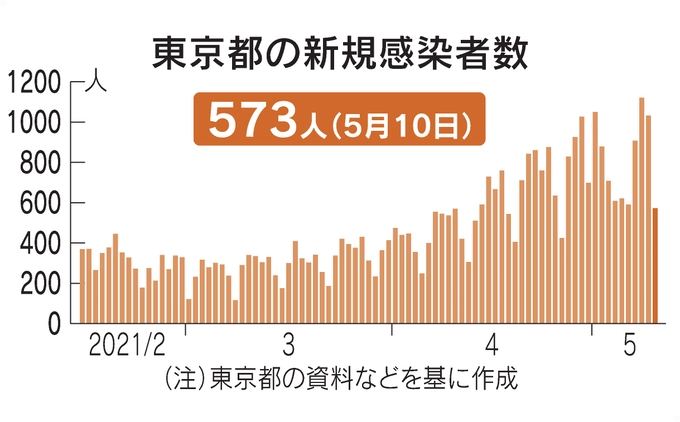
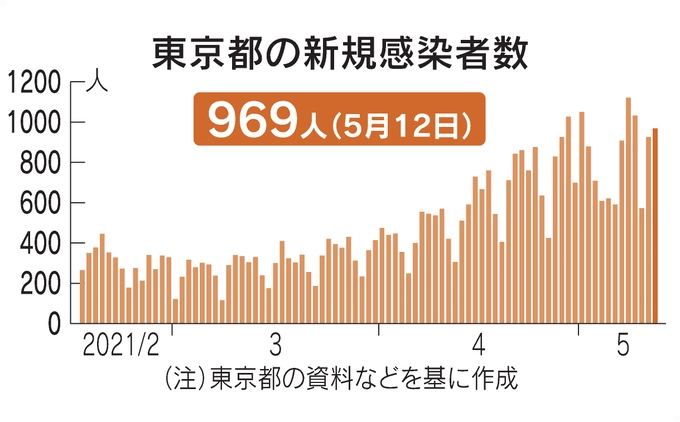
regular update

diff --git a/parts/info.php b/parts/info.php
@@ -4,15 +4,23 @@
 
   <div class="line"> INFO <i class="fas fa-info-circle"></i></div>
 
-    <!-- <li>2021年05月11日</li>
-  <div class="info-children"><span><a href="https://developershirai.com/technical-diary.php">TECHNICAL DIARY（基本情報処理技術者試験 ⑭「午前試験　テクノロジ系　過去問⑧」）</a> 追加</span></div> -->
-    <!-- <li>2021年05月12日</li>
-  <div class="info-children"><span><a href="https://developershirai.com/technical-diary.php">TECHNICAL DIARY（基本情報処理技術者試験 ⑬「午前試験　テクノロジ系　過去問⑦」）</a> 追加</span></div> -->
-    <!-- <li>2021年05月11日</li>
-  <div class="info-children"><span><a href="https://developershirai.com/technical-diary.php">TECHNICAL DIARY（基本情報処理技術者試験 ⑫「午前試験　テクノロジ系　過去問⑥」）</a> 追加</span></div> -->
+    <!-- <li>2021年05月16日</li>
+  <div class="info-children"><span><a href="https://developershirai.com/technical-diary.php">TECHNICAL DIARY</a> （基本情報処理技術者試験 ⑰「午前試験　マネジメント系　過去問⑪」）追加</span></div> -->
 
-  
+    <!-- <li>2021年05月15日</li>
+  <div class="info-children"><span><a href="https://developershirai.com/technical-diary.php">TECHNICAL DIARY</a> （基本情報処理技術者試験 ⑯「午前試験　テクノロジ系　過去問⑩」）追加</span></div> -->
 
+    <!-- <li>2021年05月14日</li>
+  <div class="info-children"><span><a href="https://developershirai.com/technical-diary.php">TECHNICAL DIARY</a> （基本情報処理技術者試験 ⑮「午前試験　テクノロジ系　過去問⑨」）追加</span></div> -->
+
+    <!-- <li>2021年05月13日</li>
+  <div class="info-children"><span><a href="https://developershirai.com/technical-diary.php">TECHNICAL DIARY</a> （基本情報処理技術者試験 ⑭「午前試験　テクノロジ系　過去問⑧」）追加</span></div> -->
+
+    <li>2021年05月12日</li>
+  <div class="info-children"><span><a href="https://developershirai.com/technical-diary.php">TECHNICAL DIARY</a> （基本情報処理技術者試験 ⑬「午前試験　テクノロジ系　過去問⑦」）追加</span></div>
+
+    <li>2021年05月11日</li>
+  <div class="info-children"><span><a href="https://developershirai.com/technical-diary.php">TECHNICAL DIARY</a> （基本情報処理技術者試験 ⑫「午前試験　テクノロジ系　過去問⑥」）追加</span></div>
 
   <li>2021年05月10日</li>
   <div class="info-children"><span><a href="diary.php">DIARY（ソイ）</a> 追加</span></div>
@@ -24,19 +32,19 @@
   <div class="info-children"><span><a href="https://developershirai.com/wp/">Wordpress練習用ページ</a> 追加</span></div>
 
     <li>2021年05月10日</li>
-  <div class="info-children"><span><a href="https://developershirai.com/technical-diary.php">TECHNICAL DIARY（基本情報処理技術者試験 ⑪「午前試験　テクノロジ系　過去問⑤」）</a> 追加</span></div>
+  <div class="info-children"><span><a href="https://developershirai.com/technical-diary.php">TECHNICAL DIARY</a> （基本情報処理技術者試験 ⑪「午前試験　テクノロジ系　過去問⑤」）追加</span></div>
 
     <li>2021年05月09日</li>
-  <div class="info-children"><span><a href="https://developershirai.com/technical-diary.php">TECHNICAL DIARY（基本情報処理技術者試験 ⑩「午前試験　テクノロジ系　過去問④」）</a> 追加</span></div>
+  <div class="info-children"><span><a href="https://developershirai.com/technical-diary.php">TECHNICAL DIARY</a> （基本情報処理技術者試験 ⑩「午前試験　テクノロジ系　過去問④」）追加</span></div>
 
   <li>2021年05月08日</li>
   <div class="info-children"><span><a href="avocado.php">AVOCADO</a> 更新</span></div>
 
     <li>2021年05月08日</li>
-  <div class="info-children"><span><a href="https://developershirai.com/technical-diary.php">TECHNICAL DIARY（基本情報処理技術者試験 ⑨「午前試験　テクノロジ系　過去問③」）</a> 追加</span></div>
+  <div class="info-children"><span><a href="https://developershirai.com/technical-diary.php">TECHNICAL DIARY</a> （基本情報処理技術者試験 ⑨「午前試験　テクノロジ系　過去問③」）追加</span></div>
 
     <li>2021年05月07日</li>
-  <div class="info-children"><span><a href="https://developershirai.com/technical-diary.php">TECHNICAL DIARY（基本情報処理技術者試験 ⑧「午前試験　テクノロジ系　過去問②」）</a> 追加</span></div>
+  <div class="info-children"><span><a href="https://developershirai.com/technical-diary.php">TECHNICAL DIARY</a> （基本情報処理技術者試験 ⑧「午前試験　テクノロジ系　過去問②」） 追加</span></div>
 
   <li>2021年05月06日</li>
   <div class="info-children"><span><a href="https://developershirai.com/technical-diary.php">TECHNICAL DIARY（基本情報処理技術者試験 ⑦「2進数と16進数」）</a> 追加</span></div>

diff --git a/parts/news.php b/parts/news.php
@@ -46,6 +46,65 @@
         </li>
 
     <hr> -->
+    
+        2021年05月13日
+    
+        <li>
+                <i class="far fa-file-alt"></i>
+                <a href="" target="blank" rel="noopener">
+                </a>
+        </li>
+        <li>
+                <i class="far fa-file-alt"></i>
+                <a href="" target="blank" rel="noopener">
+                </a>
+        </li>
+        <li>
+                <i class="far fa-file-alt"></i>
+                <a href="" target="blank" rel="noopener">
+                </a>
+        </li>
+
+    <hr>
+    
+        2021年05月12日
+    
+        <li>
+                <i class="far fa-file-alt"></i>
+                <a href="https://www.nikkei.com/article/DGXZQOCC1235E0S1A510C2000000/" target="blank" rel="noopener">
+                東京都、新たに969人感染　新型コロナ</a>
+        </li>
+        <li>
+                <i class="far fa-file-alt"></i>
+                <a href="https://www.nikkei.com/article/DGXZQOCA0324C0T00C21A4000000/" target="blank" rel="noopener">
+                ワクチンパスポートとは　自由な移動・渡航へ布石</a>
+        </li>
+        <li>
+                <i class="far fa-file-alt"></i>
+                <a href="https://www.nikkei.com/article/DGXZQOFB125C80S1A510C2000000/" target="blank" rel="noopener">
+                北海道で529人感染、過去最多更新　5日連続400人超</a>
+        </li>
+
+    <hr>
+        2021年05月11日
+    
+        <li>
+                <i class="far fa-file-alt"></i>
+                <a href="https://www.nikkei.com/article/DGXZQOCC110K40R10C21A5000000/" target="blank" rel="noopener">
+                東京都、新たに925人感染　新型コロナ</a>
+        </li>
+        <li>
+                <i class="far fa-file-alt"></i>
+                <a href="https://www.nikkei.com/article/DGXZQOUA1138T0R10C21A5000000/" target="blank" rel="noopener">
+                福島・長崎・熊本、「まん延防止」適用を要請</a>
+        </li>
+        <li>
+                <i class="far fa-file-alt"></i>
+                <a href="https://www.nikkei.com/article/DGXZQOUA114AW0R10C21A5000000/" target="blank" rel="noopener">
+                大規模接種、受付業務など民間委託　防衛相</a>
+        </li>
+
+    <hr>
         2021年05月10日
     
         <li>
